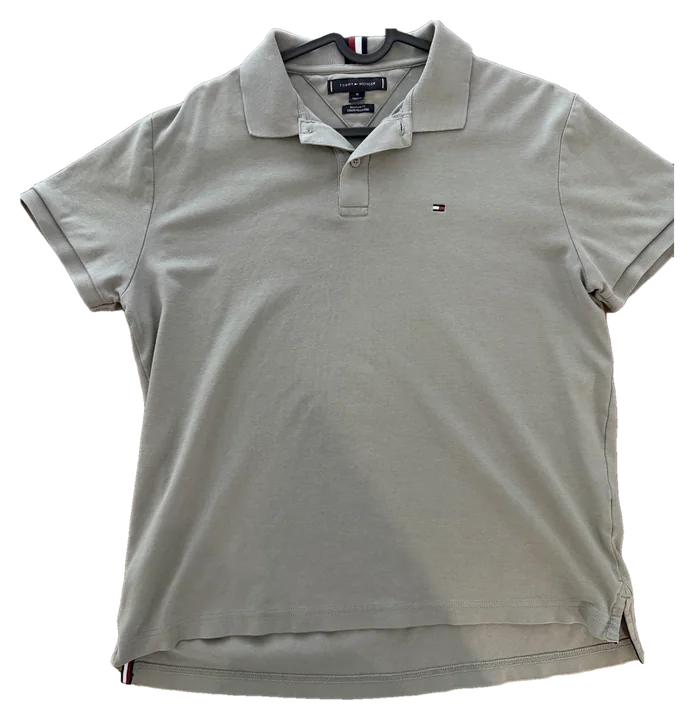
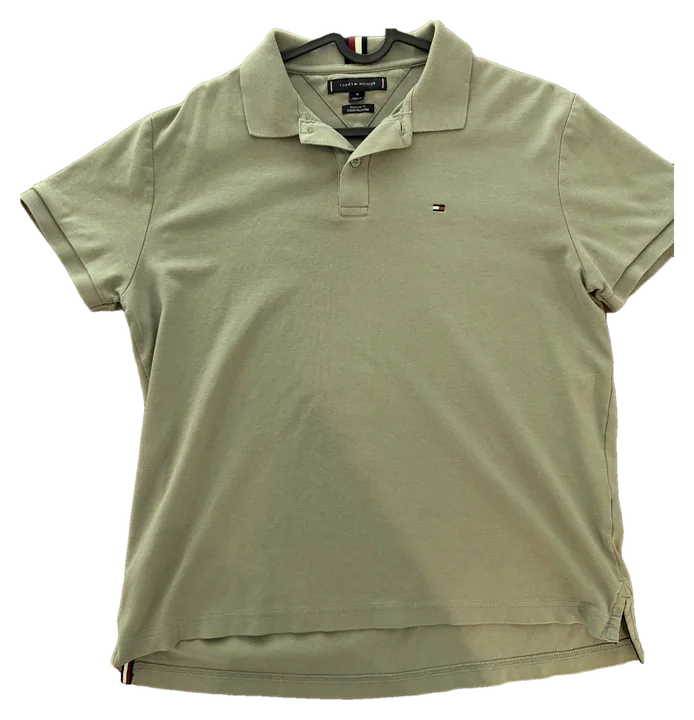
closet: colores confirmados y Comprar enfocado en camisetas y bottoms
- 1481 caqui verdoso, 1501 rosa palo lila, 1525 celeste (confirmados por Jose).
- Sin tenis (ya los tiene). Candidatas: waffle, rayas finas, arena, marino,
  polo de punto, camisa de lino manga corta; jean oscuro, chinos, lino, shorts chinos.
- Parecidas ahora miran textura y estilo; bono por color o textura que no tiene.
- Filtro Todo / Camisetas y camisas / Abajo.

diff --git a/app/closet/data.js b/app/closet/data.js
@@ -30,6 +30,7 @@ window.CLOSET_DATA = (() => {
     terracota:{ hex: '#7C4D47', name: 'terracota',   family: 'calido' },
     topo:     { hex: '#897C77', name: 'topo',        family: 'tierra' },
     salvia:   { hex: '#9EAB8F', name: 'verde salvia', family: 'oliva' },
+    arena:    { hex: '#CBB89A', name: 'arena',       family: 'tierra' },
     acero:    { hex: '#4E5464', name: 'azul acero',  family: 'azul' },
     azulrey:  { hex: '#2B2E8C', name: 'azul rey',    family: 'azul' },
   };
@@ -116,7 +117,7 @@ window.CLOSET_DATA = (() => {
     item('j1493', 'camiseta',  'terracota', { name: 'Camiseta terracota lavada', material: 'algodón', hex: '#865451' }),
     item('j1495', 'camiseta',  'acero',     { name: 'Camiseta azul pizarra lavada', material: 'algodón', hex: '#575E77' }),
     item('j1502', 'camiseta',  'gris',      { name: 'Camiseta gris', material: 'algodón', hex: '#838685' }),
-    item('j1501', 'camiseta',  'rosapalo',  { name: 'Camiseta rosa palo raglan', material: 'algodón', hex: '#B9A9A1' }),
+    item('j1501', 'camiseta',  'rosapalo',  { name: 'Camiseta rosa palo raglan', material: 'algodón', hex: '#BBA7B0' }),
     item('j1487', 'camiseta',  'rosado',    { name: 'Camiseta rosada', material: 'algodón', hex: '#E5718E' }),
     item('j1513', 'camiseta',  'rojo',      { name: 'Camiseta roja waffle', material: 'algodón waffle', hex: '#B11C18' }),
     // arriba — con logo o estampado
@@ -149,14 +150,14 @@ window.CLOSET_DATA = (() => {
     // arriba — polos
     item('j1479', 'polo',      'negro',     { name: 'Polo negra adidas', material: 'poliéster', hex: '#3C3D3C' }),
     item('j1480', 'polo',      'grisosc',   { name: 'Polo gris carbón', material: 'poliéster', hex: '#434443' }),
-    item('j1481', 'polo',      'gris',      { name: 'Polo gris Tommy', material: 'piqué', hex: '#8C8B84' }),
+    item('j1481', 'polo',      'caqui',     { name: 'Polo caqui verdoso Tommy', material: 'piqué', hex: '#8F8D6C' }),
     item('j1515', 'polo',      'marino',   { name: 'Polo azul marino Ralph Lauren', material: 'piqué', hex: '#3B3360' }),
     item('j1517', 'polo',      'blanco',    { name: 'Polo blanca Tommy', material: 'piqué', hex: '#D2D2D1' }),
     // arriba — camisas
     item('j1477', 'camisa',    'gris',      { name: 'Camisa gris manga larga', material: 'algodón', hex: '#9E9F9E' }),
     item('j1478', 'camisa',    'lila',      { name: 'Camisa oxford lila', material: 'oxford', hex: '#A19CB1' }),
     item('j1482', 'camisa',    'blanco',    { name: 'Camisa blanca manga larga', material: 'algodón', hex: '#D9D9D8' }),
-    item('j1525', 'camisa',    'celeste',   { name: 'Camisa oxford celeste', material: 'oxford', hex: '#A7A59F' }),
+    item('j1525', 'camisa',    'celeste',   { name: 'Camisa oxford celeste', material: 'oxford', hex: '#97A7B9' }),
     // capas
     item('j1529', 'sueter',    'blanco',    { name: 'Medio cierre blanco', material: 'poliéster', hex: '#D9D9D8' }),
     // abajo
@@ -180,21 +181,28 @@ window.CLOSET_DATA = (() => {
     top: 'Talla S, corte regular o athletic. Largo 66–69 cm; que la costura caiga en el hueso del hombro.',
     shirt: 'Talla S slim. Que no pase de la mitad de la bragueta si la llevas por fuera.',
   };
+  // Sin zapatos: Jose ya los tiene, solo no los ha subido.
   const catalog = [
-    item('c41', 'tenis', 'blanco', { ghost: true, name: 'Tenis blancos minimalistas', q: 'white minimalist leather sneakers', material: 'cuero',
-      tip: 'Suela delgada, no chunky: la suela gruesa se nota más que la altura que te da.' }),
+    // arriba: camisetas que no son la básica de siempre
+    item('g-waffle-crema',  'camiseta', 'crudo',  { ghost: true, name: 'Camiseta waffle crema', q: 'cream waffle knit t-shirt', material: 'algodón waffle', tip: T.top }),
+    item('g-waffle-salvia', 'camiseta', 'salvia', { ghost: true, name: 'Camiseta waffle verde salvia', q: 'sage green waffle t-shirt', material: 'algodón waffle', tip: T.top }),
+    item('g-tee-rayas',     'camiseta', 'crudo',  { ghost: true, name: 'Camiseta de rayas finas crema y marino', q: 'cream navy thin stripe t-shirt', material: 'algodón',
+      tip: T.top + ' Rayas finas (no anchas): a tu estatura las anchas ensanchan.' }),
+    item('g-tee-arena',     'camiseta', 'arena',  { ghost: true, name: 'Camiseta arena de algodón grueso', q: 'sand heavyweight t-shirt regular fit', material: 'algodón', tip: T.top }),
+    item('g-tee-marino',    'camiseta', 'marino', { ghost: true, name: 'Camiseta azul marino', q: 'navy t-shirt regular fit', material: 'algodón', tip: T.top }),
+    item('g-polo-crema',    'polo',     'crudo',  { ghost: true, name: 'Polo de punto crema', q: 'cream knit polo shirt', material: 'punto', tip: T.top }),
+    item('g-polo-marino',   'polo',     'marino', { ghost: true, name: 'Polo de punto azul marino', q: 'navy knit polo shirt', material: 'punto', tip: T.top }),
+    item('g-resort-crema',  'camisa',   'crudo',  { ghost: true, name: 'Camisa manga corta de lino crema', q: 'cream linen camp collar shirt short sleeve', material: 'lino', tip: T.shirt }),
+    item('g-resort-salvia', 'camisa',   'salvia', { ghost: true, name: 'Camisa manga corta de lino salvia', q: 'sage linen camp collar shirt short sleeve', material: 'lino', tip: T.shirt }),
+    // abajo
+    item('g-jean-oscuro',  'pantalon', 'indigo', { ghost: true, name: 'Jean oscuro slim', q: 'dark wash slim jeans 28 inseam', material: 'denim', tip: T.pant }),
     item('g-chino-beige',  'pantalon', 'beige',  { ghost: true, name: 'Chino beige',       q: 'beige slim chino pants', material: 'chino', tip: T.pant }),
-    item('g-chino-oliva',  'pantalon', 'oliva',  { ghost: true, name: 'Chino verde oliva', q: 'olive slim chino pants', material: 'chino', tip: T.pant }),
     item('g-chino-negro',  'pantalon', 'negro',  { ghost: true, name: 'Chino negro',       q: 'black slim chino pants', material: 'chino', tip: T.pant }),
+    item('g-chino-oliva',  'pantalon', 'oliva',  { ghost: true, name: 'Chino verde oliva', q: 'olive slim chino pants', material: 'chino', tip: T.pant }),
+    item('g-lino-crudo',   'pantalon', 'crudo',  { ghost: true, name: 'Pantalón de lino crudo', q: 'natural linen drawstring pants', material: 'lino', tip: T.pant }),
     item('g-short-caqui',  'short',    'caqui',  { ghost: true, name: 'Short chino caqui', q: 'khaki chino shorts 5 inch', material: 'algodón', tip: T.short }),
     item('g-short-marino', 'short',    'marino', { ghost: true, name: 'Short chino azul marino', q: 'navy chino shorts 5 inch', material: 'algodón', tip: T.short }),
-    item('g-polo-crema',   'polo',     'crudo',  { ghost: true, name: 'Polo de punto crema', q: 'cream knit polo shirt', material: 'punto', tip: T.top }),
-    item('g-polo-marino',  'polo',     'marino', { ghost: true, name: 'Polo de punto azul marino', q: 'navy knit polo shirt', material: 'punto', tip: T.top }),
-    item('g-lino-blanca',  'camisa',   'blanco', { ghost: true, name: 'Camisa de lino blanca', q: 'white linen shirt', material: 'lino', tip: T.shirt }),
-    item('g-lino-salvia',  'camisa',   'salvia', { ghost: true, name: 'Camisa de lino verde salvia', q: 'sage green linen shirt', material: 'lino', tip: T.shirt }),
-    item('g-tee-crema',    'camiseta', 'crudo',  { ghost: true, name: 'Camiseta crema de buen algodón', q: 'off white heavyweight t-shirt regular fit', material: 'algodón', tip: T.top }),
-    item('g-tee-marino',   'camiseta', 'marino', { ghost: true, name: 'Camiseta azul marino', q: 'navy t-shirt regular fit', material: 'algodón', tip: T.top }),
-    item('g-sobre-oliva',  'chaqueta', 'oliva',  { ghost: true, name: 'Sobrecamisa oliva', q: 'olive overshirt', material: 'algodón', tip: 'Talla S. Que cierre sin tirar en el pecho y termine en la cadera.' }),
+    item('g-short-oliva',  'short',    'oliva',  { ghost: true, name: 'Short chino oliva', q: 'olive chino shorts 5 inch', material: 'algodón', tip: T.short }),
   ];
 
   // Dónde comprar: marcas con tienda física en cada mall y su buscador online

diff --git a/app/closet/app.js b/app/closet/app.js
@@ -415,8 +415,10 @@
   // ── Comprar ─────────────────────────────────────────────────────────────
   views.comprar = () => {
     const items = wardrobe();
+    const want = state.prefs.buyCat || 'todo';
     const gaps = E.gaps(items, D.catalog.filter(c => !state.wishlist.includes(c.id)), D.occasions.slice(0, 3), D.weathers.slice(0, 2), state.votes)
-      .slice(0, 8);
+      .filter(g => want === 'todo' || (want === 'top' ? g.item.cat === 'top' : g.item.cat === 'bottom'))
+      .slice(0, want === 'todo' ? 8 : 12);
     const total = E.countAll(items, D.occasions, D.weathers.slice(0, 2), state.votes);
     const mall = D.malls.find(m => m.id === state.prefs.mall) || D.malls[0];
     const mallBrands = mall.brands.map(id => ({ id, ...D.brands[id] })).filter(b => b.name).sort((a, b) => a.name.localeCompare(b.name));
@@ -429,6 +431,8 @@
     const why = g => {
       if (g.needShoes) return 'No hay zapatos en tu armario: es lo primero.';
       const bits = [];
+      if (g.newKind) bits.push({ rayas: 'no tienes nada de rayas', lino: 'nada de lino en tu armario', punto: 'tejido de punto: se ve más arreglado', waffle: 'textura que casi no tienes' }[g.newKind]);
+      if (g.newColor) bits.push('un color que no tienes');
       if (g.revived.length) bits.push(`le da uso a ${g.revived.length} ${g.revived.length === 1 ? 'prenda que casi no sale' : 'prendas que casi no salen'}`);
       if (g.twins.length) bits.push(`ojo: se parece a tu ${g.twins[0].name.toLowerCase()}`);
       return bits.join(' · ');
@@ -466,6 +470,7 @@
       h('header', { class: 'head' },
         h('h1', { class: 'display' }, 'Lo que te ', h('em', {}, 'falta'), '.'),
         h('p', { class: 'lead' }, `Con lo que tienes se arman ${total} outfits. Cada prenda de abajo abre combinaciones que hoy no existen.`),
+        h('div', { class: 'chips' }, ...[['todo', 'Todo'], ['top', 'Camisetas y camisas'], ['bottom', 'Abajo']].map(([id, label]) => chip(label, want === id, () => setP('buyCat', id)))),
         h('div', { class: 'chips' }, ...D.malls.map(m => chip(m.name, m.id === mall.id, () => setP('mall', m.id)))),
         mallBrands.length > 1 ? h('div', { class: 'chips brands' }, ...mallBrands.map(b => chip(b.name, picked.includes(b.id), () => {
           const s = new Set(state.prefs.brands); s.has(b.id) ? s.delete(b.id) : s.add(b.id); setP('brands', [...s]);

diff --git a/app/closet/engine.js b/app/closet/engine.js
@@ -185,8 +185,10 @@ window.CLOSET_ENGINE = (() => {
 
   // ¿Ya tienes algo casi igual? Mismo tipo y color que se ve igual (neutros por
   // claridad; colores por tono). Comprar algo repetido no suma.
+  const texture = i => (/waffle/i.test(`${i.name} ${i.material}`) && 'waffle') || (/rayas/i.test(i.name) && 'rayas')
+    || (/lino/i.test(`${i.name} ${i.material}`) && 'lino') || (/punto/i.test(i.material) && 'punto') || 'liso';
   function similar(a, b) {
-    if (a.type !== b.type) return false;
+    if (a.type !== b.type || texture(a) !== texture(b) || (a.style || 'casual') !== (b.style || 'casual')) return false;
     const A = lab(a.color.hex), B = lab(b.color.hex);
     if (A.C < 12 && B.C < 12) return Math.abs(A.L - B.L) < 12;
     if (A.C < 12 || B.C < 12) return false;
@@ -223,10 +225,15 @@ window.CLOSET_ENGINE = (() => {
           for (const p of o.parts) if (forgotten.has(p.id)) revived.add(p.id);
         }
       const twins = items.filter(i => similar(i, g));
+      const newKind = texture(g) !== 'liso' && !items.some(i => texture(i) === texture(g) && i.cat === g.cat);
+      // ¿Trae un color que hoy no tienes en ninguna prenda?
+      const G = lab(g.color.hex);
+      const newColor = G.C > 12 && !items.some(i => { const I = lab(i.color.hex);
+        return I.C > 12 && Math.min(Math.abs(I.h - G.h), 360 - Math.abs(I.h - G.h)) < 30; });
       const unlocks = keys.size;
       // Una capa duplica outfits de días frescos (variantes), y en Florida pesa menos.
-      const score = unlocks * (g.cat === 'layer' ? 0.2 : 1) + revived.size - 25 * twins.length + (noShoes && g.cat === 'shoes' ? 1000 : 0);
-      return { item: g, unlocks, revived: items.filter(i => revived.has(i.id)), twins, needShoes: noShoes && g.cat === 'shoes', score };
+      const score = unlocks * (g.cat === 'layer' ? 0.2 : 1) + revived.size + (newColor ? 6 : 0) + (newKind ? 6 : 0) - 25 * twins.length + (noShoes && g.cat === 'shoes' ? 1000 : 0);
+      return { item: g, unlocks, revived: items.filter(i => revived.has(i.id)), twins, newColor, newKind: newKind && texture(g), needShoes: noShoes && g.cat === 'shoes', score };
     }).filter(r => r.unlocks > 0 && r.twins.length < 2).sort((a, b) => b.score - a.score);
   }
 

diff --git a/app/closet/img/CREDITOS.md b/app/closet/img/CREDITOS.md
@@ -28,6 +28,5 @@ Los PNG de esta carpeta son estas fotos con el fondo quitado (rembg/U²-Net). Se
 
 | Archivo | Prenda pedida | URL de la página | Autor | Exacta / aproximada |
 |---|---|---|---|---|
-| c41.jpg | Tenis blancos minimalistas | https://unsplash.com/photos/XZ3EmAIWuz0 | Trendest Studio | **Aproximada**: tenis blanco de perfil "levitando" sobre fondo blanco, pero con talón negro con monograma (no es 100 % liso tipo Stan Smith/Common Projects). |
 
 Se usaron i31, i34, i37 y c41 (recortadas igual). i33 se descartó por repetir la camiseta negra. Sin foto libre sobre blanco: buzo, jogger, short deportivo, camisa estampada.
